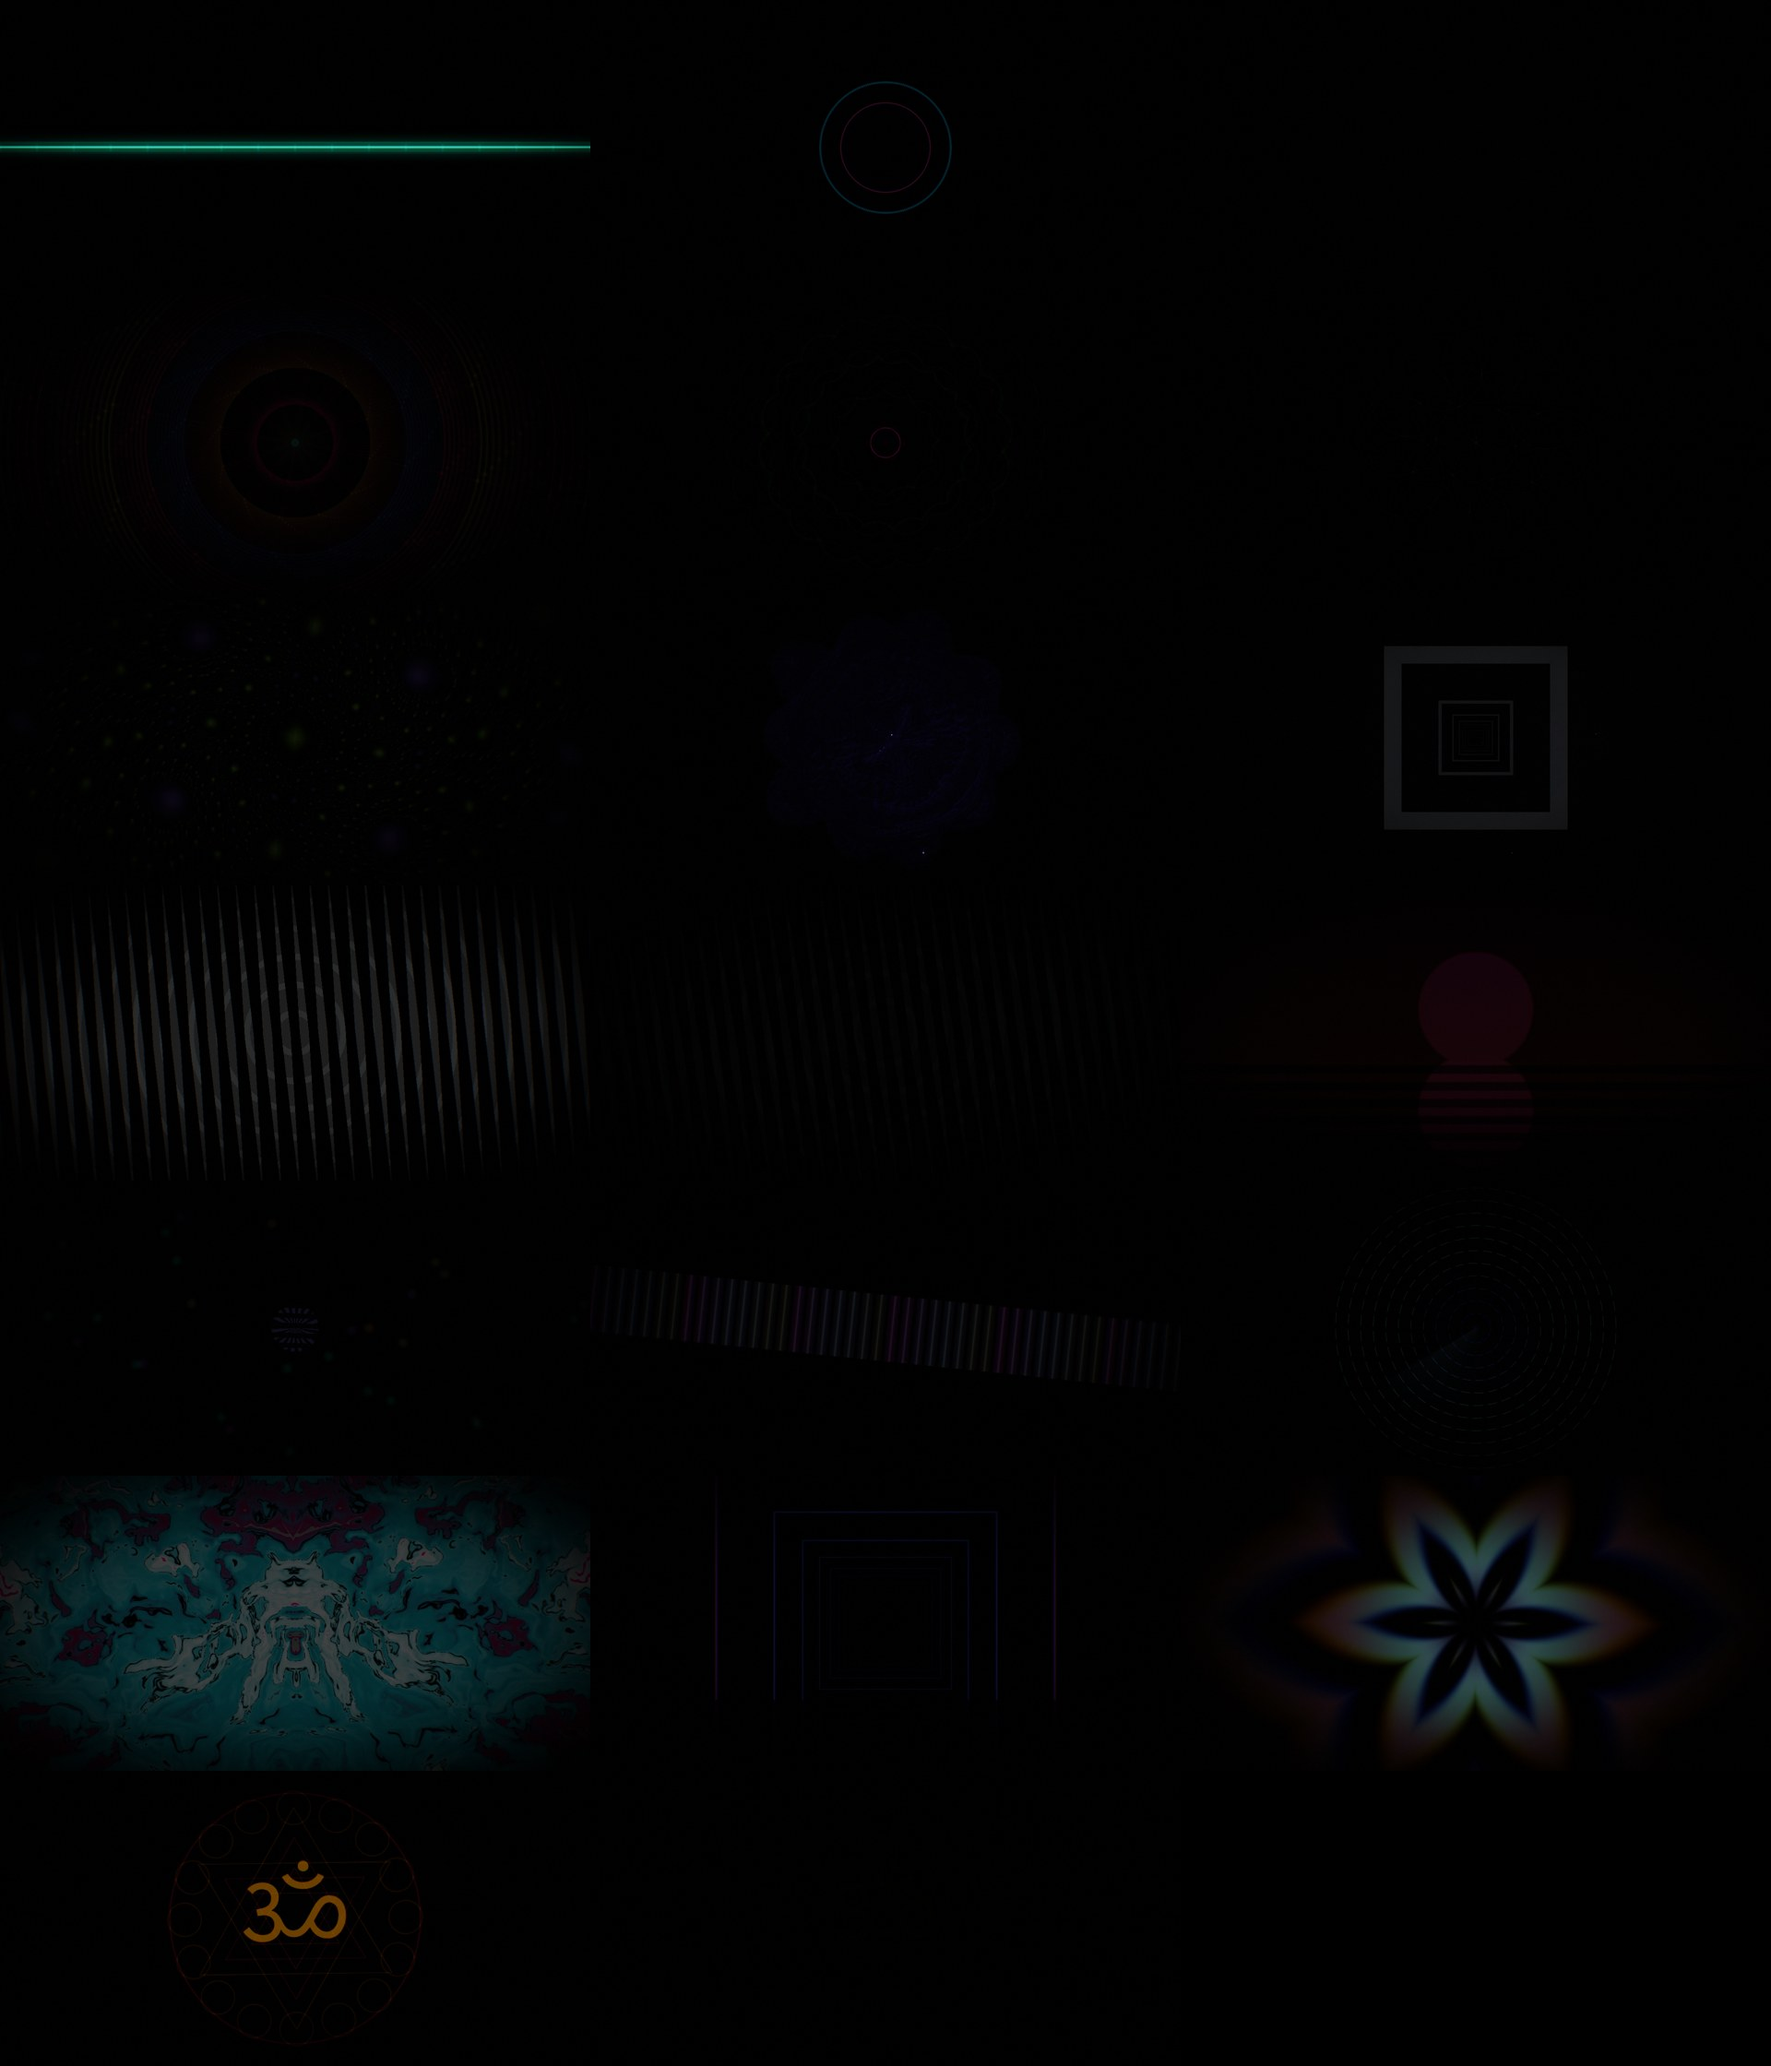
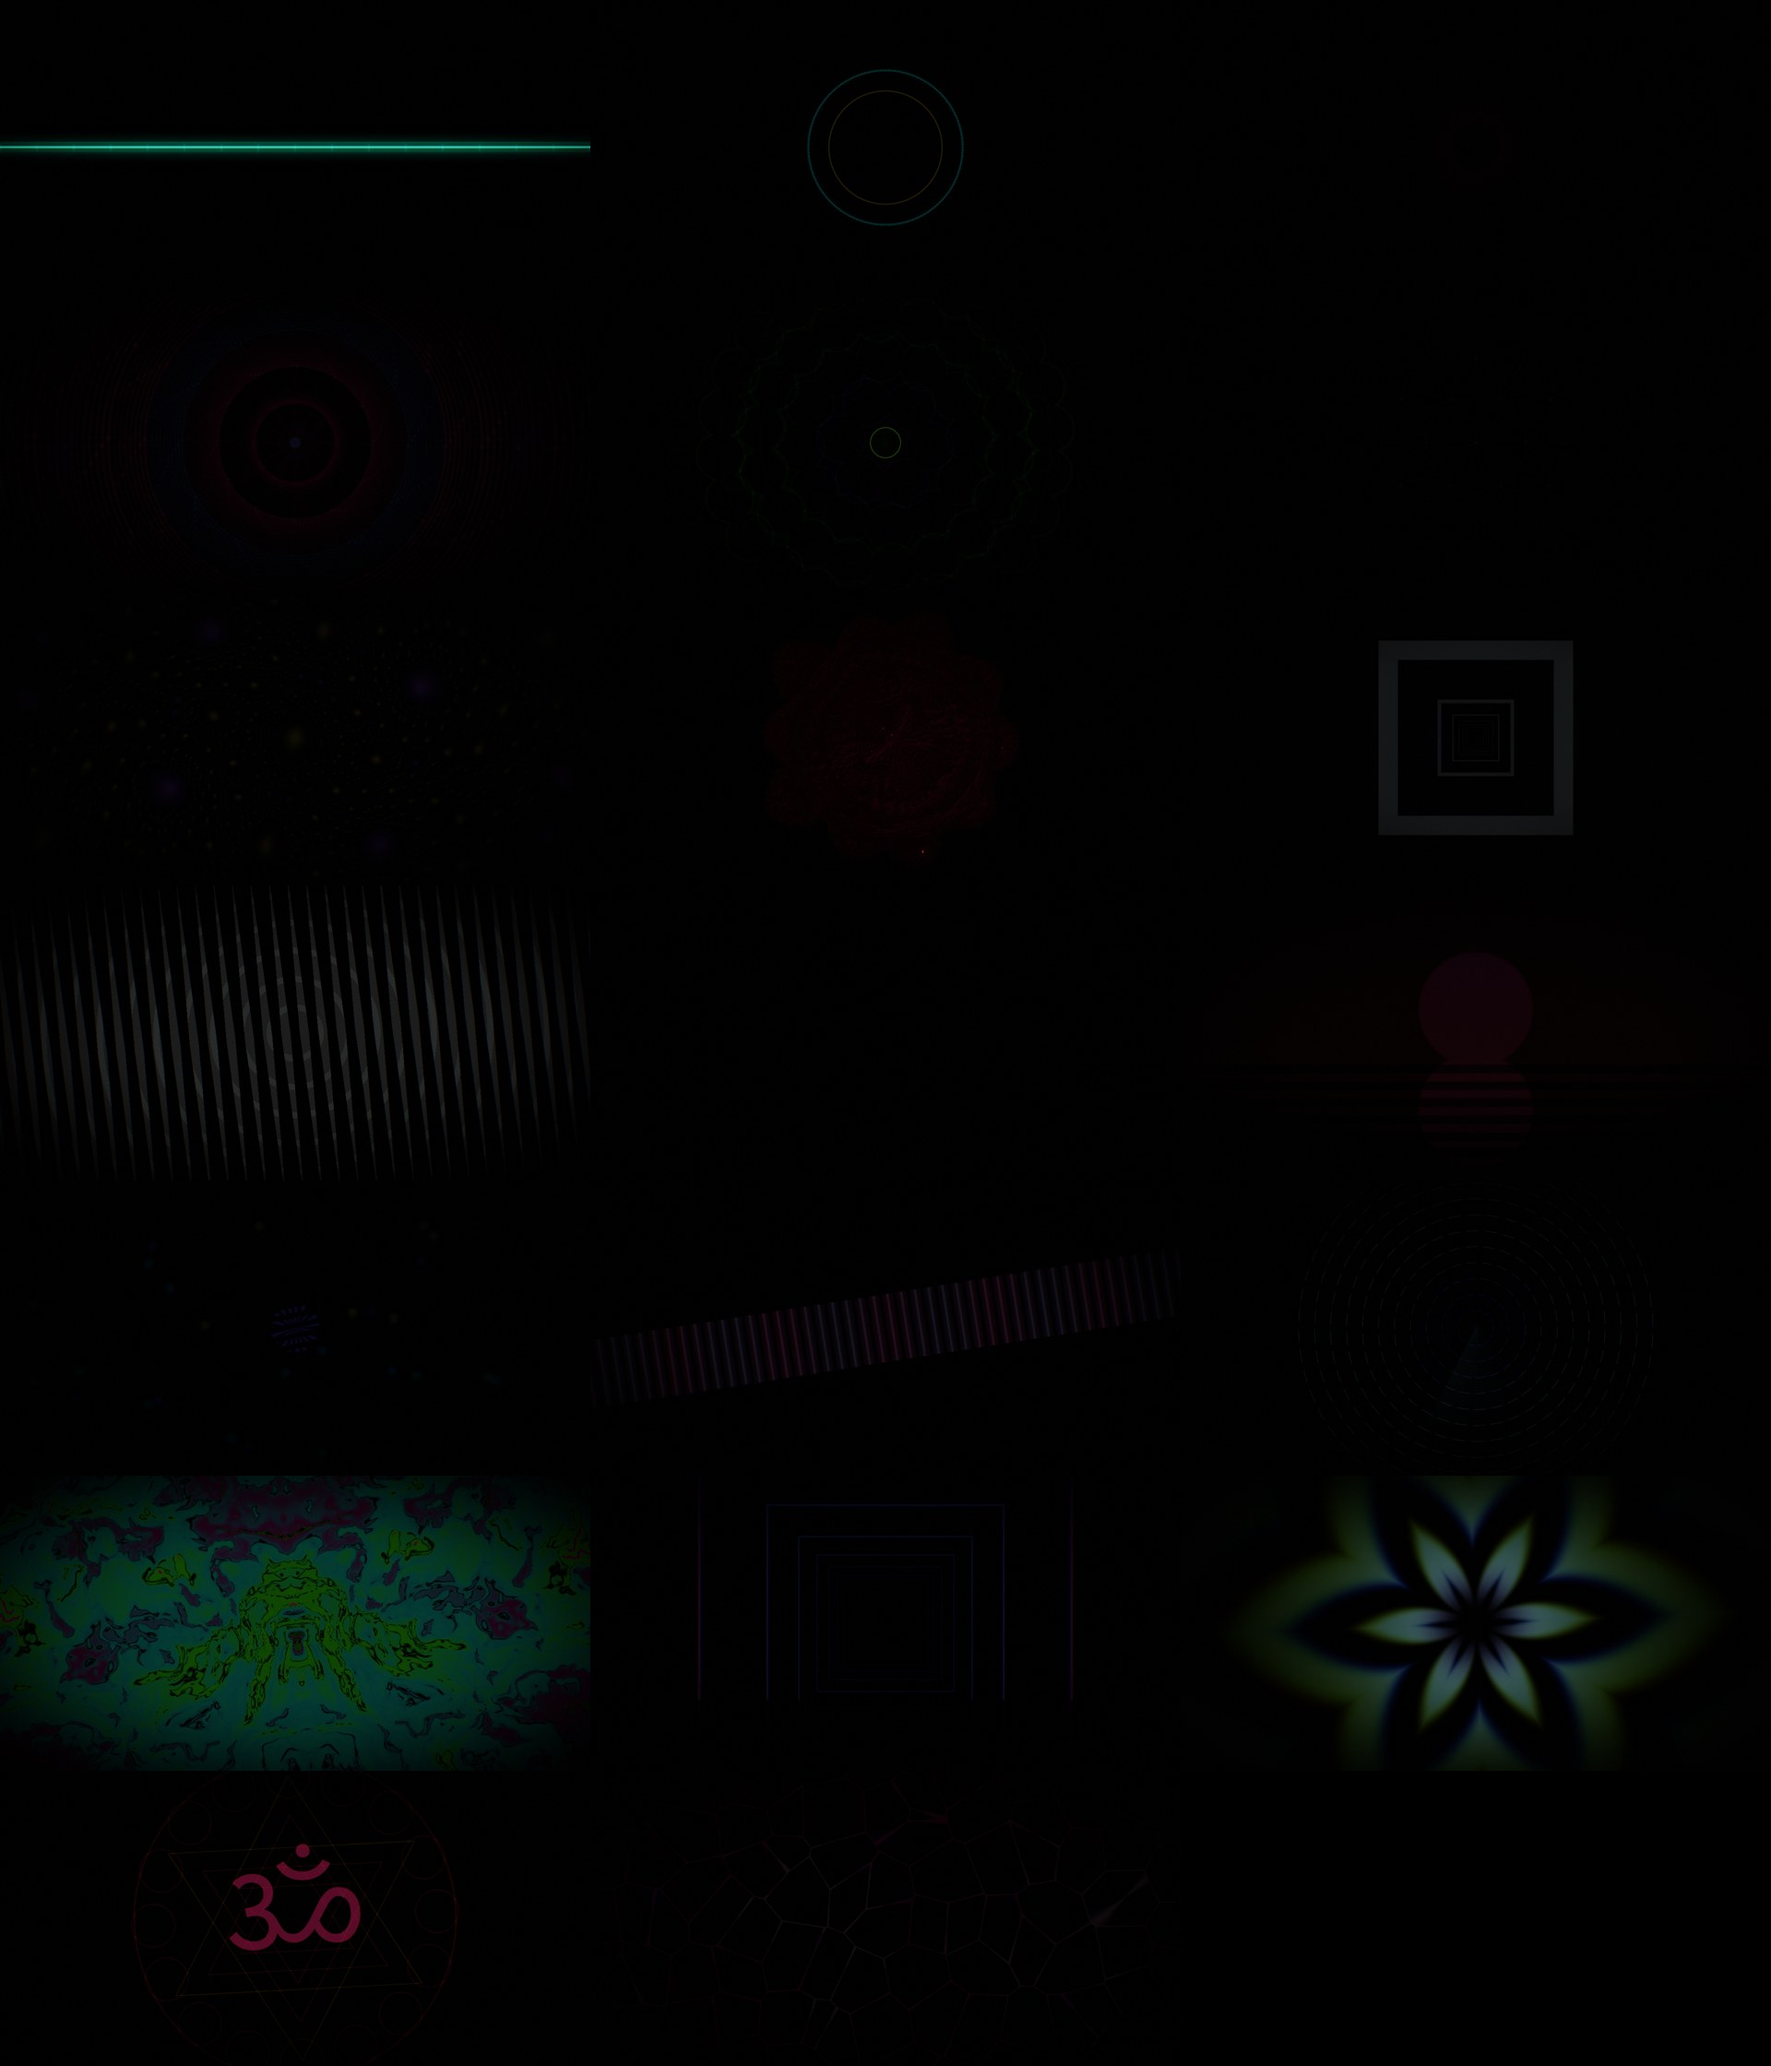
Fill the frame around centred scenes, and whiten the spectrum
Seven of the twenty scenes are a single centred object, so a wide screen was
mostly dead black around them. Fixing that per scene would have been seven
edits drifting apart, so there is now one shared ambient backdrop that scenes
opt into by weight: thresholded haze, thin spectrum rings travelling outward,
and a faint grid, all gated away from the middle so none of it competes with
the subject. Those scenes are also scaled up toward the frame height.

Getting the backdrop right took three passes. Too faint to register, then a
wash that swamped the subject, then sparse: each layer is thresholded so it
reads as texture rather than glow.

Separately, spectrum-driven visuals were nearly all bass. Music has orders of
magnitude more energy down low, so the raw FFT left anything driven by the
upper bins flat, and the circular spectrum grew a skirt at the bottom while
staying still everywhere else. Each bin is now rescaled against its own
decaying peak before upload, so treble detail actually moves.

Claude-Session: https://claude.ai/code/session_01Rz2pBbf1e2CyCAVEoKFDCW

Changed region(s): [[0.0, 0.7188, 0.3125, 0.8438], [0.7188, 0.7188, 0.9375, 0.875], [0.125, 0.875, 0.2188, 0.9688]]

diff --git a/src/scenes/index.ts b/src/scenes/index.ts
@@ -41,6 +41,12 @@ export type Scene = {
   bloom?: number
   /** Whether the borrowed third palette stop applies. Off keeps a scene monochrome. */
   accent?: boolean
+  /**
+   * Strength of the shared ambient backdrop. Scenes that are one centred object
+   * need it or a wide screen is mostly empty; scenes that already fill the
+   * frame leave it at 0.
+   */
+  fill?: number
 }
 
 const hex = (v: string): Rgb => [
@@ -67,6 +73,7 @@ export const scenes: Scene[] = [
     resScale: 1.0,
     feedback: { decay: 0.55, scale: 1.0, rotate: 0.0 },
     camera: false,
+    fill: 0.9,
   },
   {
     name: 'vortex',
@@ -88,6 +95,7 @@ export const scenes: Scene[] = [
     palette: [hex('#B026FF'), hex('#39FF14')],
     resScale: 1.0,
     feedback: { decay: 0.74, scale: 0.997, rotate: 0.004 },
+    fill: 1.0,
   },
   {
     name: 'metatron',
@@ -95,6 +103,7 @@ export const scenes: Scene[] = [
     palette: [hex('#FF6A00'), hex('#FFD84D')],
     resScale: 1.0,
     feedback: { decay: 0.72, scale: 1.0, rotate: 0.0 },
+    fill: 1.0,
   },
   {
     name: 'kali',
@@ -109,6 +118,7 @@ export const scenes: Scene[] = [
     palette: [hex('#4A00E0'), hex('#C6FF00')],
     resScale: 0.7,
     feedback: { decay: 0.78, scale: 1.002, rotate: 0.001 },
+    fill: 0.8,
   },
   {
     name: 'girder',
@@ -155,6 +165,7 @@ export const scenes: Scene[] = [
     palette: [hex('#FFD166'), hex('#06D6F0')],
     resScale: 1.0,
     feedback: { decay: 0.62, scale: 1.0, rotate: 0.0 },
+    fill: 0.7,
   },
   {
     name: 'prism',
@@ -172,6 +183,7 @@ export const scenes: Scene[] = [
     camera: false,
     bloom: 0.5,
     accent: false,
+    fill: 0.85,
   },
   {
     name: 'liquid',
@@ -195,6 +207,7 @@ export const scenes: Scene[] = [
     palette: [hex('#FF4FD8'), hex('#35E8FF')],
     resScale: 1.0,
     feedback: { decay: 0.72, scale: 0.99, rotate: 0.003 },
+    fill: 0.5,
   },
   {
     name: 'yantra',
@@ -202,6 +215,7 @@ export const scenes: Scene[] = [
     palette: [hex('#FFB000'), hex('#FF2D55')],
     resScale: 1.0,
     feedback: { decay: 0.66, scale: 0.998, rotate: 0.002 },
+    fill: 1.0,
   },
   {
     name: 'strobe',

diff --git a/src/audio/analyser.ts b/src/audio/analyser.ts
@@ -127,6 +127,28 @@ export function audibility(level: number) {
   return clamp01((level - audio.quietRms) / (audio.loudRms - audio.quietRms))
 }
 
+/**
+ * Rescales each FFT bin against its own recent peak. Without it a spectrum
+ * visual is all bass: the low end is orders of magnitude louder, so anything
+ * driven by the upper bins barely moves.
+ */
+export class SpectrumWhitener {
+  private readonly peak: Float32Array
+
+  constructor(size: number) {
+    this.peak = new Float32Array(size)
+  }
+
+  process(spectrum: Uint8Array, dt: number) {
+    const keep = Math.exp(-dt / audio.specPeakDecayS)
+    for (let i = 0; i < spectrum.length; i++) {
+      const v = spectrum[i]
+      const p = (this.peak[i] = Math.max(v, this.peak[i] * keep))
+      spectrum[i] = p > audio.specPeakFloor ? Math.min(255, (v / p) * 255) : 0
+    }
+  }
+}
+
 export function rms(mag: Float32Array) {
   let sum = 0
   for (let i = 1; i < mag.length; i++) sum += mag[i] * mag[i]

diff --git a/src/audio/engine.ts b/src/audio/engine.ts
@@ -1,6 +1,7 @@
-import { BAND_COUNT, BASS, audio as cfg, visual } from '../config'
+import { BAND_COUNT, BASS, SPECTRUM_SIZE, audio as cfg, visual } from '../config'
 import {
   AdaptiveNorm,
+  SpectrumWhitener,
   audibility,
   coeff,
   BandSplitter,
@@ -34,6 +35,7 @@ export class AudioEngine {
   private readonly splitter: BandSplitter
   private readonly envelopes = new Envelopes()
   private readonly norm = new AdaptiveNorm()
+  private readonly whiten = new SpectrumWhitener(SPECTRUM_SIZE)
   private readonly onsets: OnsetDetector
   private readonly raw = new Float32Array(BAND_COUNT)
 
@@ -86,6 +88,7 @@ export class AudioEngine {
 
     this.onsetNode.getByteTimeDomainData(f.wave)
     this.bandNode.getByteFrequencyData(f.spectrum)
+    this.whiten.process(f.spectrum, dt)
     f.nyquist = this.ctx.sampleRate * 0.5
     this.bandNode.getFloatFrequencyData(this.bandDb)
     this.onsetNode.getFloatFrequencyData(this.onsetDb)

diff --git a/src/config.ts b/src/config.ts
@@ -28,6 +28,10 @@ export const audio = {
   // Judging it on FFT magnitudes needs a different constant per band (the air
   // band spreads its energy over ~300 bins, the sub over ~2), so a single
   // threshold there silently gated the upper bands off at every volume.
+  // Per-bin whitening for the spectrum texture. Music has far more energy
+  // down low, so a raw spectrum leaves every treble-driven visual flat.
+  specPeakDecayS: 1.6,
+  specPeakFloor: 6,
   quietRms: 0.003,
   loudRms: 0.025,
 

diff --git a/src/gl/pipeline.ts b/src/gl/pipeline.ts
@@ -25,7 +25,7 @@ const SCENE_MAIN = `
 void main() {
   vec2 uv = (gl_FragCoord.xy * 2.0 - uRes) / uRes.y;
   uv = rot2(uCamSpin) * uv * uCamZoom;
-  fragColor = vec4(scene(uv), 1.0);
+  fragColor = vec4(scene(uv) + ambient(uv) * uFill, 1.0);
 }`
 
 const frag = (body: string, sceneMain: boolean) =>

diff --git a/src/gl/uniforms.ts b/src/gl/uniforms.ts
@@ -20,6 +20,7 @@ export function uploadAudio(
   u.f('uKickZoom', visual.kickZoom)
   u.f('uKickFlash', visual.kickFlash)
   u.f('uBloom', scene.bloom ?? 1)
+  u.f('uFill', scene.fill ?? 0)
   u.fv('uNorm', f.norm)
   u.fv('uImpulse', f.impulse)
   u.f('uRms', f.rms)
